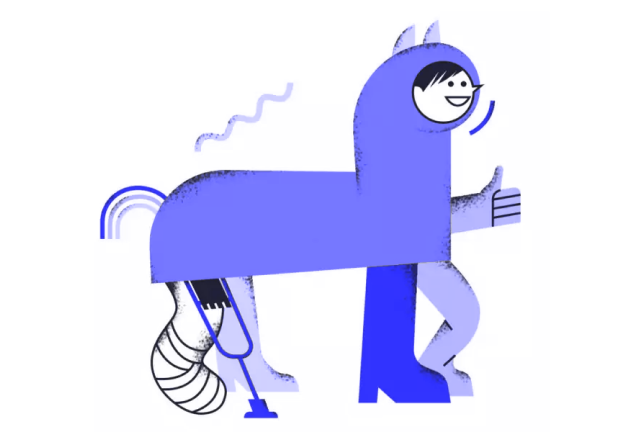
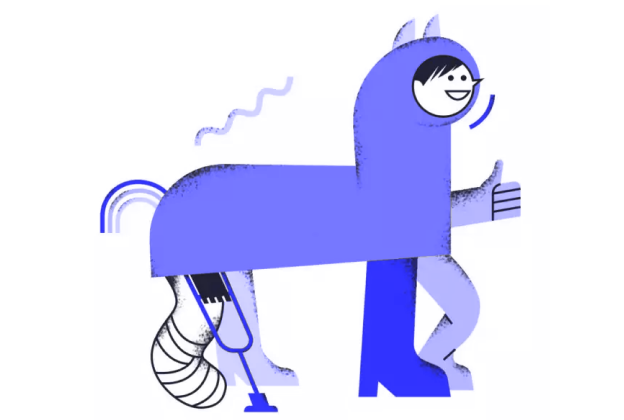
fix: COM-2010 Исправил изображеие и отступы

diff --git a/components/Post/Body/ParagraphWithImage/ParagraphWithImage.styles.js b/components/Post/Body/ParagraphWithImage/ParagraphWithImage.styles.js
@@ -26,7 +26,6 @@ const base = ({ breakpoints: { desktop, tablet, mobile } }) => css`
     float: left;
     margin-top: 0;
     margin-right: 16px;
-    margin-bottom: 4px;
     grid-column: none;
 
     img {
@@ -51,7 +50,6 @@ const base = ({ breakpoints: { desktop, tablet, mobile } }) => css`
       /* TODO: убрать фиксированную ширину когда появятся адаптивные изображения */
       width: ${calcRem(184)};
       margin-right: ${calcRem(40)};
-      margin-bottom: ${calcRem(7)};
     }
 
     .text_regular_m + .text_regular_m {
@@ -73,7 +71,6 @@ const base = ({ breakpoints: { desktop, tablet, mobile } }) => css`
       /* TODO: убрать фиксированную ширину когда появятся адаптивные изображения */
       width: ${calcRem(104)};
       margin-right: ${calcRem(8)};
-      margin-bottom: ${calcRem(7)};
     }
 
     .heading_regular_s + .text_regular_m {
